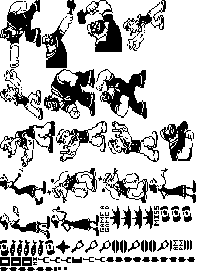
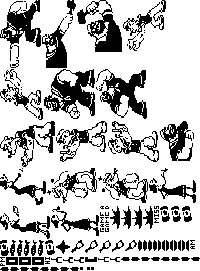
fix: preserve horizontal clock and score proportions

Changed region(s): [[0.0, 0.8856, 1.0, 1.0], [0.75, 0.7675, 0.81, 0.8561]]

diff --git a/src/c/segments_landscape.h b/src/c/segments_landscape.h
@@ -13,8 +13,8 @@
 #define LANDSCAPE_SHEET_HEIGHT 271
 
 static const SegmentArt landscape_art[SEG_COUNT] = {
-  [SEG_AM] = { 173, 240, 186, 213, 5, 10 }, /* am */
-  [SEG_BELL] = { 54, 267, 171, 218, 3, 4 }, /* bell */
+  [SEG_AM] = { 190, 240, 183, 206, 5, 9 }, /* am */
+  [SEG_BELL] = { 91, 267, 166, 211, 3, 3 }, /* bell */
   [SEG_BRUTUS + 0 * 3 + 0] = { 160, 121, 48, 0, 34, 40 }, /* brutus-left-idle */
   [SEG_BRUTUS + 0 * 3 + 2] = { 42, 0, 48, 0, 34, 68 }, /* brutus-left-strike */
   [SEG_BRUTUS + 0 * 3 + 1] = { 77, 0, 48, 0, 45, 52 }, /* brutus-left-windup */
@@ -24,65 +24,65 @@ static const SegmentArt landscape_art[SEG_COUNT] = {
   [SEG_CARGO + 0 * 5 + 0] = { 99, 240, 126, 57, 12, 13 }, /* cargo-0-0 */
   [SEG_CARGO + 0 * 5 + 1] = { 71, 240, 135, 71, 13, 13 }, /* cargo-0-1 */
   [SEG_CARGO + 0 * 5 + 2] = { 85, 240, 121, 80, 13, 13 }, /* cargo-0-2 */
-  [SEG_CARGO + 0 * 5 + 3] = { 157, 240, 96, 69, 12, 11 }, /* cargo-0-3 */
-  [SEG_CARGO + 0 * 5 + 4] = { 128, 240, 73, 51, 12, 12 }, /* cargo-0-4 */
+  [SEG_CARGO + 0 * 5 + 3] = { 125, 240, 96, 69, 12, 11 }, /* cargo-0-3 */
+  [SEG_CARGO + 0 * 5 + 4] = { 112, 240, 73, 51, 12, 12 }, /* cargo-0-4 */
   [SEG_CARGO + 1 * 5 + 0] = { 10, 240, 126, 56, 6, 16 }, /* cargo-1-0 */
   [SEG_CARGO + 1 * 5 + 1] = { 17, 240, 140, 81, 6, 16 }, /* cargo-1-1 */
   [SEG_CARGO + 1 * 5 + 2] = { 24, 240, 123, 100, 6, 16 }, /* cargo-1-2 */
   [SEG_CARGO + 1 * 5 + 3] = { 31, 240, 97, 91, 6, 16 }, /* cargo-1-3 */
   [SEG_CARGO + 1 * 5 + 4] = { 38, 240, 73, 78, 6, 16 }, /* cargo-1-4 */
-  [SEG_CARGO + 2 * 5 + 0] = { 50, 257, 126, 61, 10, 6 }, /* cargo-2-0 */
-  [SEG_CARGO + 2 * 5 + 1] = { 38, 257, 144, 96, 11, 6 }, /* cargo-2-1 */
-  [SEG_CARGO + 2 * 5 + 2] = { 61, 257, 127, 126, 10, 6 }, /* cargo-2-2 */
-  [SEG_CARGO + 2 * 5 + 3] = { 95, 257, 100, 141, 10, 5 }, /* cargo-2-3 */
-  [SEG_CARGO + 2 * 5 + 4] = { 83, 257, 73, 140, 11, 5 }, /* cargo-2-4 */
+  [SEG_CARGO + 2 * 5 + 0] = { 63, 257, 126, 61, 10, 6 }, /* cargo-2-0 */
+  [SEG_CARGO + 2 * 5 + 1] = { 51, 257, 144, 96, 11, 6 }, /* cargo-2-1 */
+  [SEG_CARGO + 2 * 5 + 2] = { 74, 257, 127, 126, 10, 6 }, /* cargo-2-2 */
+  [SEG_CARGO + 2 * 5 + 3] = { 110, 257, 100, 141, 10, 5 }, /* cargo-2-3 */
+  [SEG_CARGO + 2 * 5 + 4] = { 98, 257, 73, 140, 11, 5 }, /* cargo-2-4 */
   [SEG_CARGO + 3 * 5 + 0] = { 0, 240, 126, 56, 9, 16 }, /* cargo-3-0 */
   [SEG_CARGO + 3 * 5 + 1] = { 160, 206, 147, 96, 10, 16 }, /* cargo-3-1 */
   [SEG_CARGO + 3 * 5 + 2] = { 171, 206, 132, 137, 10, 16 }, /* cargo-3-2 */
   [SEG_CARGO + 3 * 5 + 3] = { 182, 206, 103, 159, 10, 16 }, /* cargo-3-3 */
   [SEG_CARGO + 3 * 5 + 4] = { 45, 240, 73, 164, 10, 15 }, /* cargo-3-4 */
-  [SEG_COLON] = { 58, 267, 179, 166, 9, 3 }, /* colon */
-  [SEG_DIGIT + 0 * 7 + 0] = { 184, 240, 190, 127, 2, 10 }, /* digit-0-a */
-  [SEG_DIGIT + 0 * 7 + 1] = { 106, 257, 184, 136, 8, 5 }, /* digit-0-b */
-  [SEG_DIGIT + 0 * 7 + 2] = { 115, 257, 176, 136, 8, 5 }, /* digit-0-c */
-  [SEG_DIGIT + 0 * 7 + 3] = { 141, 240, 175, 126, 3, 12 }, /* digit-0-d */
-  [SEG_DIGIT + 0 * 7 + 4] = { 0, 267, 176, 124, 8, 4 }, /* digit-0-e */
-  [SEG_DIGIT + 0 * 7 + 5] = { 9, 267, 184, 124, 8, 4 }, /* digit-0-f */
-  [SEG_DIGIT + 0 * 7 + 6] = { 145, 240, 182, 126, 3, 12 }, /* digit-0-g */
-  [SEG_DIGIT + 1 * 7 + 0] = { 187, 240, 190, 148, 2, 10 }, /* digit-1-a */
-  [SEG_DIGIT + 1 * 7 + 1] = { 18, 267, 184, 157, 8, 4 }, /* digit-1-b */
-  [SEG_DIGIT + 1 * 7 + 2] = { 27, 267, 176, 157, 8, 4 }, /* digit-1-c */
-  [SEG_DIGIT + 1 * 7 + 3] = { 112, 240, 175, 146, 3, 13 }, /* digit-1-d */
-  [SEG_DIGIT + 1 * 7 + 4] = { 124, 257, 176, 144, 8, 5 }, /* digit-1-e */
-  [SEG_DIGIT + 1 * 7 + 5] = { 133, 257, 184, 144, 8, 5 }, /* digit-1-f */
-  [SEG_DIGIT + 1 * 7 + 6] = { 116, 240, 182, 146, 3, 13 }, /* digit-1-g */
-  [SEG_DIGIT + 2 * 7 + 0] = { 190, 240, 190, 175, 2, 10 }, /* digit-2-a */
-  [SEG_DIGIT + 2 * 7 + 1] = { 142, 257, 184, 184, 8, 5 }, /* digit-2-b */
-  [SEG_DIGIT + 2 * 7 + 2] = { 151, 257, 176, 184, 8, 5 }, /* digit-2-c */
-  [SEG_DIGIT + 2 * 7 + 3] = { 149, 240, 175, 174, 3, 12 }, /* digit-2-d */
-  [SEG_DIGIT + 2 * 7 + 4] = { 160, 257, 176, 171, 8, 5 }, /* digit-2-e */
-  [SEG_DIGIT + 2 * 7 + 5] = { 169, 257, 184, 171, 8, 5 }, /* digit-2-f */
-  [SEG_DIGIT + 2 * 7 + 6] = { 153, 240, 182, 174, 3, 12 }, /* digit-2-g */
-  [SEG_DIGIT + 3 * 7 + 0] = { 170, 240, 190, 195, 2, 11 }, /* digit-3-a */
-  [SEG_DIGIT + 3 * 7 + 1] = { 36, 267, 184, 205, 8, 4 }, /* digit-3-b */
-  [SEG_DIGIT + 3 * 7 + 2] = { 45, 267, 176, 205, 8, 4 }, /* digit-3-c */
-  [SEG_DIGIT + 3 * 7 + 3] = { 120, 240, 175, 194, 3, 13 }, /* digit-3-d */
-  [SEG_DIGIT + 3 * 7 + 4] = { 178, 257, 176, 192, 8, 5 }, /* digit-3-e */
-  [SEG_DIGIT + 3 * 7 + 5] = { 187, 257, 184, 192, 8, 5 }, /* digit-3-f */
-  [SEG_DIGIT + 3 * 7 + 6] = { 124, 240, 182, 194, 3, 13 }, /* digit-3-g */
+  [SEG_COLON] = { 80, 267, 175, 165, 10, 3 }, /* colon */
+  [SEG_DIGIT + 0 * 7 + 0] = { 158, 240, 187, 130, 3, 11 }, /* digit-0-a */
+  [SEG_DIGIT + 0 * 7 + 1] = { 121, 257, 180, 139, 9, 4 }, /* digit-0-b */
+  [SEG_DIGIT + 0 * 7 + 2] = { 131, 257, 171, 139, 9, 4 }, /* digit-0-c */
+  [SEG_DIGIT + 0 * 7 + 3] = { 162, 240, 170, 130, 3, 11 }, /* digit-0-d */
+  [SEG_DIGIT + 0 * 7 + 4] = { 141, 257, 171, 128, 9, 4 }, /* digit-0-e */
+  [SEG_DIGIT + 0 * 7 + 5] = { 151, 257, 180, 128, 9, 4 }, /* digit-0-f */
+  [SEG_DIGIT + 0 * 7 + 6] = { 138, 240, 178, 130, 4, 11 }, /* digit-0-g */
+  [SEG_DIGIT + 1 * 7 + 0] = { 166, 240, 187, 148, 3, 11 }, /* digit-1-a */
+  [SEG_DIGIT + 1 * 7 + 1] = { 161, 257, 180, 157, 9, 4 }, /* digit-1-b */
+  [SEG_DIGIT + 1 * 7 + 2] = { 171, 257, 171, 157, 9, 4 }, /* digit-1-c */
+  [SEG_DIGIT + 1 * 7 + 3] = { 170, 240, 170, 148, 3, 11 }, /* digit-1-d */
+  [SEG_DIGIT + 1 * 7 + 4] = { 181, 257, 171, 146, 9, 4 }, /* digit-1-e */
+  [SEG_DIGIT + 1 * 7 + 5] = { 191, 257, 180, 146, 9, 4 }, /* digit-1-f */
+  [SEG_DIGIT + 1 * 7 + 6] = { 143, 240, 178, 148, 4, 11 }, /* digit-1-g */
+  [SEG_DIGIT + 2 * 7 + 0] = { 174, 240, 187, 172, 3, 11 }, /* digit-2-a */
+  [SEG_DIGIT + 2 * 7 + 1] = { 0, 267, 180, 181, 9, 4 }, /* digit-2-b */
+  [SEG_DIGIT + 2 * 7 + 2] = { 10, 267, 171, 181, 9, 4 }, /* digit-2-c */
+  [SEG_DIGIT + 2 * 7 + 3] = { 178, 240, 170, 172, 3, 11 }, /* digit-2-d */
+  [SEG_DIGIT + 2 * 7 + 4] = { 20, 267, 171, 170, 9, 4 }, /* digit-2-e */
+  [SEG_DIGIT + 2 * 7 + 5] = { 30, 267, 180, 170, 9, 4 }, /* digit-2-f */
+  [SEG_DIGIT + 2 * 7 + 6] = { 148, 240, 178, 172, 4, 11 }, /* digit-2-g */
+  [SEG_DIGIT + 3 * 7 + 0] = { 182, 240, 187, 190, 3, 11 }, /* digit-3-a */
+  [SEG_DIGIT + 3 * 7 + 1] = { 40, 267, 180, 199, 9, 4 }, /* digit-3-b */
+  [SEG_DIGIT + 3 * 7 + 2] = { 50, 267, 171, 199, 9, 4 }, /* digit-3-c */
+  [SEG_DIGIT + 3 * 7 + 3] = { 186, 240, 170, 190, 3, 11 }, /* digit-3-d */
+  [SEG_DIGIT + 3 * 7 + 4] = { 60, 267, 171, 188, 9, 4 }, /* digit-3-e */
+  [SEG_DIGIT + 3 * 7 + 5] = { 70, 267, 180, 188, 9, 4 }, /* digit-3-f */
+  [SEG_DIGIT + 3 * 7 + 6] = { 153, 240, 178, 190, 4, 11 }, /* digit-3-g */
   [SEG_GAME_A] = { 100, 206, 192, 6, 4, 26 }, /* game-a */
   [SEG_GAME_B] = { 105, 206, 183, 6, 4, 26 }, /* game-b */
-  [SEG_HI] = { 33, 257, 189, 92, 4, 8 }, /* hi */
-  [SEG_MISS + 0] = { 0, 257, 163, 159, 10, 9 }, /* miss-0 */
-  [SEG_MISS + 1] = { 11, 257, 163, 174, 10, 9 }, /* miss-1 */
-  [SEG_MISS + 2] = { 22, 257, 163, 189, 10, 9 }, /* miss-2 */
-  [SEG_MISS_HALF] = { 72, 257, 163, 203, 10, 6 }, /* miss-half */
-  [SEG_MISS_LABEL] = { 154, 206, 164, 130, 5, 20 }, /* miss-label */
+  [SEG_HI] = { 45, 257, 186, 100, 5, 7 }, /* hi */
+  [SEG_MISS + 0] = { 6, 257, 156, 159, 12, 8 }, /* miss-0 */
+  [SEG_MISS + 1] = { 19, 257, 156, 172, 12, 8 }, /* miss-1 */
+  [SEG_MISS + 2] = { 32, 257, 156, 185, 12, 8 }, /* miss-2 */
+  [SEG_MISS_HALF] = { 85, 257, 156, 198, 12, 5 }, /* miss-half */
+  [SEG_MISS_LABEL] = { 154, 206, 158, 134, 5, 17 }, /* miss-label */
   [SEG_OLIVE_BELL + 0] = { 51, 206, 104, 30, 48, 30 }, /* olive-bell-0 */
   [SEG_OLIVE_BELL + 1] = { 149, 168, 104, 28, 47, 35 }, /* olive-bell-1 */
   [SEG_OLIVE_READY] = { 0, 206, 104, 28, 50, 33 }, /* olive-ready */
   [SEG_OLIVE_THROW] = { 0, 168, 104, 28, 46, 37 }, /* olive-throw */
-  [SEG_PM] = { 179, 240, 178, 213, 4, 10 }, /* pm */
+  [SEG_PM] = { 0, 257, 173, 206, 5, 9 }, /* pm */
   [SEG_POPEYE + 0] = { 123, 0, 35, 50, 43, 51 }, /* popeye-0 */
   [SEG_POPEYE + 1] = { 56, 121, 35, 78, 51, 41 }, /* popeye-1 */
   [SEG_POPEYE + 2] = { 0, 121, 35, 91, 55, 46 }, /* popeye-2 */

diff --git a/src/c/segments_landscape_bottom.h b/src/c/segments_landscape_bottom.h
@@ -13,8 +13,8 @@
 #define LANDSCAPE_BOTTOM_SHEET_HEIGHT 271
 
 static const SegmentArt landscape_bottom_art[SEG_COUNT] = {
-  [SEG_AM] = { 173, 240, 9, 5, 5, 10 }, /* am */
-  [SEG_BELL] = { 54, 267, 26, 6, 3, 4 }, /* bell */
+  [SEG_AM] = { 190, 240, 12, 13, 5, 9 }, /* am */
+  [SEG_BELL] = { 91, 267, 31, 14, 3, 3 }, /* bell */
   [SEG_BRUTUS + 0 * 3 + 0] = { 160, 121, 118, 188, 34, 40 }, /* brutus-left-idle */
   [SEG_BRUTUS + 0 * 3 + 2] = { 42, 0, 118, 160, 34, 68 }, /* brutus-left-strike */
   [SEG_BRUTUS + 0 * 3 + 1] = { 77, 0, 107, 176, 45, 52 }, /* brutus-left-windup */
@@ -24,65 +24,65 @@ static const SegmentArt landscape_bottom_art[SEG_COUNT] = {
   [SEG_CARGO + 0 * 5 + 0] = { 99, 240, 62, 158, 12, 13 }, /* cargo-0-0 */
   [SEG_CARGO + 0 * 5 + 1] = { 71, 240, 52, 144, 13, 13 }, /* cargo-0-1 */
   [SEG_CARGO + 0 * 5 + 2] = { 85, 240, 66, 135, 13, 13 }, /* cargo-0-2 */
-  [SEG_CARGO + 0 * 5 + 3] = { 157, 240, 92, 148, 12, 11 }, /* cargo-0-3 */
-  [SEG_CARGO + 0 * 5 + 4] = { 128, 240, 115, 165, 12, 12 }, /* cargo-0-4 */
+  [SEG_CARGO + 0 * 5 + 3] = { 125, 240, 92, 148, 12, 11 }, /* cargo-0-3 */
+  [SEG_CARGO + 0 * 5 + 4] = { 112, 240, 115, 165, 12, 12 }, /* cargo-0-4 */
   [SEG_CARGO + 1 * 5 + 0] = { 10, 240, 68, 156, 6, 16 }, /* cargo-1-0 */
   [SEG_CARGO + 1 * 5 + 1] = { 17, 240, 54, 131, 6, 16 }, /* cargo-1-1 */
   [SEG_CARGO + 1 * 5 + 2] = { 24, 240, 71, 112, 6, 16 }, /* cargo-1-2 */
   [SEG_CARGO + 1 * 5 + 3] = { 31, 240, 97, 121, 6, 16 }, /* cargo-1-3 */
   [SEG_CARGO + 1 * 5 + 4] = { 38, 240, 121, 134, 6, 16 }, /* cargo-1-4 */
-  [SEG_CARGO + 2 * 5 + 0] = { 50, 257, 64, 161, 10, 6 }, /* cargo-2-0 */
-  [SEG_CARGO + 2 * 5 + 1] = { 38, 257, 45, 126, 11, 6 }, /* cargo-2-1 */
-  [SEG_CARGO + 2 * 5 + 2] = { 61, 257, 63, 96, 10, 6 }, /* cargo-2-2 */
-  [SEG_CARGO + 2 * 5 + 3] = { 95, 257, 90, 82, 10, 5 }, /* cargo-2-3 */
-  [SEG_CARGO + 2 * 5 + 4] = { 83, 257, 116, 83, 11, 5 }, /* cargo-2-4 */
+  [SEG_CARGO + 2 * 5 + 0] = { 63, 257, 64, 161, 10, 6 }, /* cargo-2-0 */
+  [SEG_CARGO + 2 * 5 + 1] = { 51, 257, 45, 126, 11, 6 }, /* cargo-2-1 */
+  [SEG_CARGO + 2 * 5 + 2] = { 74, 257, 63, 96, 10, 6 }, /* cargo-2-2 */
+  [SEG_CARGO + 2 * 5 + 3] = { 110, 257, 90, 82, 10, 5 }, /* cargo-2-3 */
+  [SEG_CARGO + 2 * 5 + 4] = { 98, 257, 116, 83, 11, 5 }, /* cargo-2-4 */
   [SEG_CARGO + 3 * 5 + 0] = { 0, 240, 65, 156, 9, 16 }, /* cargo-3-0 */
   [SEG_CARGO + 3 * 5 + 1] = { 160, 206, 43, 116, 10, 16 }, /* cargo-3-1 */
   [SEG_CARGO + 3 * 5 + 2] = { 171, 206, 58, 75, 10, 16 }, /* cargo-3-2 */
   [SEG_CARGO + 3 * 5 + 3] = { 182, 206, 87, 53, 10, 16 }, /* cargo-3-3 */
   [SEG_CARGO + 3 * 5 + 4] = { 45, 240, 117, 49, 10, 15 }, /* cargo-3-4 */
-  [SEG_COLON] = { 58, 267, 12, 59, 9, 3 }, /* colon */
-  [SEG_DIGIT + 0 * 7 + 0] = { 184, 240, 8, 91, 2, 10 }, /* digit-0-a */
-  [SEG_DIGIT + 0 * 7 + 1] = { 106, 257, 8, 87, 8, 5 }, /* digit-0-b */
-  [SEG_DIGIT + 0 * 7 + 2] = { 115, 257, 16, 87, 8, 5 }, /* digit-0-c */
-  [SEG_DIGIT + 0 * 7 + 3] = { 141, 240, 22, 90, 3, 12 }, /* digit-0-d */
-  [SEG_DIGIT + 0 * 7 + 4] = { 0, 267, 16, 100, 8, 4 }, /* digit-0-e */
-  [SEG_DIGIT + 0 * 7 + 5] = { 9, 267, 8, 100, 8, 4 }, /* digit-0-f */
-  [SEG_DIGIT + 0 * 7 + 6] = { 145, 240, 15, 90, 3, 12 }, /* digit-0-g */
-  [SEG_DIGIT + 1 * 7 + 0] = { 187, 240, 8, 70, 2, 10 }, /* digit-1-a */
-  [SEG_DIGIT + 1 * 7 + 1] = { 18, 267, 8, 67, 8, 4 }, /* digit-1-b */
-  [SEG_DIGIT + 1 * 7 + 2] = { 27, 267, 16, 67, 8, 4 }, /* digit-1-c */
-  [SEG_DIGIT + 1 * 7 + 3] = { 112, 240, 22, 69, 3, 13 }, /* digit-1-d */
-  [SEG_DIGIT + 1 * 7 + 4] = { 124, 257, 16, 79, 8, 5 }, /* digit-1-e */
-  [SEG_DIGIT + 1 * 7 + 5] = { 133, 257, 8, 79, 8, 5 }, /* digit-1-f */
-  [SEG_DIGIT + 1 * 7 + 6] = { 116, 240, 15, 69, 3, 13 }, /* digit-1-g */
-  [SEG_DIGIT + 2 * 7 + 0] = { 190, 240, 8, 43, 2, 10 }, /* digit-2-a */
-  [SEG_DIGIT + 2 * 7 + 1] = { 142, 257, 8, 39, 8, 5 }, /* digit-2-b */
-  [SEG_DIGIT + 2 * 7 + 2] = { 151, 257, 16, 39, 8, 5 }, /* digit-2-c */
-  [SEG_DIGIT + 2 * 7 + 3] = { 149, 240, 22, 42, 3, 12 }, /* digit-2-d */
-  [SEG_DIGIT + 2 * 7 + 4] = { 160, 257, 16, 52, 8, 5 }, /* digit-2-e */
-  [SEG_DIGIT + 2 * 7 + 5] = { 169, 257, 8, 52, 8, 5 }, /* digit-2-f */
-  [SEG_DIGIT + 2 * 7 + 6] = { 153, 240, 15, 42, 3, 12 }, /* digit-2-g */
-  [SEG_DIGIT + 3 * 7 + 0] = { 170, 240, 8, 22, 2, 11 }, /* digit-3-a */
-  [SEG_DIGIT + 3 * 7 + 1] = { 36, 267, 8, 19, 8, 4 }, /* digit-3-b */
-  [SEG_DIGIT + 3 * 7 + 2] = { 45, 267, 16, 19, 8, 4 }, /* digit-3-c */
-  [SEG_DIGIT + 3 * 7 + 3] = { 120, 240, 22, 21, 3, 13 }, /* digit-3-d */
-  [SEG_DIGIT + 3 * 7 + 4] = { 178, 257, 16, 31, 8, 5 }, /* digit-3-e */
-  [SEG_DIGIT + 3 * 7 + 5] = { 187, 257, 8, 31, 8, 5 }, /* digit-3-f */
-  [SEG_DIGIT + 3 * 7 + 6] = { 124, 240, 15, 21, 3, 13 }, /* digit-3-g */
+  [SEG_COLON] = { 80, 267, 15, 60, 10, 3 }, /* colon */
+  [SEG_DIGIT + 0 * 7 + 0] = { 158, 240, 10, 87, 3, 11 }, /* digit-0-a */
+  [SEG_DIGIT + 0 * 7 + 1] = { 121, 257, 11, 85, 9, 4 }, /* digit-0-b */
+  [SEG_DIGIT + 0 * 7 + 2] = { 131, 257, 20, 85, 9, 4 }, /* digit-0-c */
+  [SEG_DIGIT + 0 * 7 + 3] = { 162, 240, 27, 87, 3, 11 }, /* digit-0-d */
+  [SEG_DIGIT + 0 * 7 + 4] = { 141, 257, 20, 96, 9, 4 }, /* digit-0-e */
+  [SEG_DIGIT + 0 * 7 + 5] = { 151, 257, 11, 96, 9, 4 }, /* digit-0-f */
+  [SEG_DIGIT + 0 * 7 + 6] = { 138, 240, 18, 87, 4, 11 }, /* digit-0-g */
+  [SEG_DIGIT + 1 * 7 + 0] = { 166, 240, 10, 69, 3, 11 }, /* digit-1-a */
+  [SEG_DIGIT + 1 * 7 + 1] = { 161, 257, 11, 67, 9, 4 }, /* digit-1-b */
+  [SEG_DIGIT + 1 * 7 + 2] = { 171, 257, 20, 67, 9, 4 }, /* digit-1-c */
+  [SEG_DIGIT + 1 * 7 + 3] = { 170, 240, 27, 69, 3, 11 }, /* digit-1-d */
+  [SEG_DIGIT + 1 * 7 + 4] = { 181, 257, 20, 78, 9, 4 }, /* digit-1-e */
+  [SEG_DIGIT + 1 * 7 + 5] = { 191, 257, 11, 78, 9, 4 }, /* digit-1-f */
+  [SEG_DIGIT + 1 * 7 + 6] = { 143, 240, 18, 69, 4, 11 }, /* digit-1-g */
+  [SEG_DIGIT + 2 * 7 + 0] = { 174, 240, 10, 45, 3, 11 }, /* digit-2-a */
+  [SEG_DIGIT + 2 * 7 + 1] = { 0, 267, 11, 43, 9, 4 }, /* digit-2-b */
+  [SEG_DIGIT + 2 * 7 + 2] = { 10, 267, 20, 43, 9, 4 }, /* digit-2-c */
+  [SEG_DIGIT + 2 * 7 + 3] = { 178, 240, 27, 45, 3, 11 }, /* digit-2-d */
+  [SEG_DIGIT + 2 * 7 + 4] = { 20, 267, 20, 54, 9, 4 }, /* digit-2-e */
+  [SEG_DIGIT + 2 * 7 + 5] = { 30, 267, 11, 54, 9, 4 }, /* digit-2-f */
+  [SEG_DIGIT + 2 * 7 + 6] = { 148, 240, 18, 45, 4, 11 }, /* digit-2-g */
+  [SEG_DIGIT + 3 * 7 + 0] = { 182, 240, 10, 27, 3, 11 }, /* digit-3-a */
+  [SEG_DIGIT + 3 * 7 + 1] = { 40, 267, 11, 25, 9, 4 }, /* digit-3-b */
+  [SEG_DIGIT + 3 * 7 + 2] = { 50, 267, 20, 25, 9, 4 }, /* digit-3-c */
+  [SEG_DIGIT + 3 * 7 + 3] = { 186, 240, 27, 27, 3, 11 }, /* digit-3-d */
+  [SEG_DIGIT + 3 * 7 + 4] = { 60, 267, 20, 36, 9, 4 }, /* digit-3-e */
+  [SEG_DIGIT + 3 * 7 + 5] = { 70, 267, 11, 36, 9, 4 }, /* digit-3-f */
+  [SEG_DIGIT + 3 * 7 + 6] = { 153, 240, 18, 27, 4, 11 }, /* digit-3-g */
   [SEG_GAME_A] = { 100, 206, 4, 196, 4, 26 }, /* game-a */
   [SEG_GAME_B] = { 105, 206, 13, 196, 4, 26 }, /* game-b */
-  [SEG_HI] = { 33, 257, 7, 128, 4, 8 }, /* hi */
-  [SEG_MISS + 0] = { 0, 257, 27, 60, 10, 9 }, /* miss-0 */
-  [SEG_MISS + 1] = { 11, 257, 27, 45, 10, 9 }, /* miss-1 */
-  [SEG_MISS + 2] = { 22, 257, 27, 30, 10, 9 }, /* miss-2 */
-  [SEG_MISS_HALF] = { 72, 257, 27, 19, 10, 6 }, /* miss-half */
-  [SEG_MISS_LABEL] = { 154, 206, 31, 78, 5, 20 }, /* miss-label */
+  [SEG_HI] = { 45, 257, 9, 121, 5, 7 }, /* hi */
+  [SEG_MISS + 0] = { 6, 257, 32, 61, 12, 8 }, /* miss-0 */
+  [SEG_MISS + 1] = { 19, 257, 32, 48, 12, 8 }, /* miss-1 */
+  [SEG_MISS + 2] = { 32, 257, 32, 35, 12, 8 }, /* miss-2 */
+  [SEG_MISS_HALF] = { 85, 257, 32, 25, 12, 5 }, /* miss-half */
+  [SEG_MISS_LABEL] = { 154, 206, 37, 77, 5, 17 }, /* miss-label */
   [SEG_OLIVE_BELL + 0] = { 51, 206, 48, 168, 48, 30 }, /* olive-bell-0 */
   [SEG_OLIVE_BELL + 1] = { 149, 168, 49, 165, 47, 35 }, /* olive-bell-1 */
   [SEG_OLIVE_READY] = { 0, 206, 46, 167, 50, 33 }, /* olive-ready */
   [SEG_OLIVE_THROW] = { 0, 168, 50, 163, 46, 37 }, /* olive-throw */
-  [SEG_PM] = { 179, 240, 18, 5, 4, 10 }, /* pm */
+  [SEG_PM] = { 0, 257, 22, 13, 5, 9 }, /* pm */
   [SEG_POPEYE + 0] = { 123, 0, 122, 127, 43, 51 }, /* popeye-0 */
   [SEG_POPEYE + 1] = { 56, 121, 114, 109, 51, 41 }, /* popeye-1 */
   [SEG_POPEYE + 2] = { 0, 121, 110, 91, 55, 46 }, /* popeye-2 */

diff --git a/tools/build_art.py b/tools/build_art.py
@@ -269,9 +269,20 @@ def landscape_segments(segments, buttons_bottom=False):
     result = []
     for segment in segments:
         rows = [[CLEAR] * WIDTH for _ in range(HEIGHT)]
-        for x, y in segment["lit"]:
-            rows[y][x] = LIT
-        rows = landscape(rows, buttons_bottom)
+        name = segment["name"]
+        if name.startswith(("digit-", "miss-")) or name in ("colon", "am", "pm", "bell", "hi"):
+            # Lay out the right-hand register on the 228 x 200 canvas at
+            # original pixel size. Scaling the playfield shortens thin LCD
+            # bars and crowds the edge indicators. Leave a 10 px right margin.
+            for x, y in segment["lit"]:
+                sx, sy = WIDTH - 1 - (y + 2), x + 20
+                if buttons_bottom:
+                    sx, sy = WIDTH - 1 - sx, HEIGHT - 1 - sy
+                rows[sy][sx] = LIT
+        else:
+            for x, y in segment["lit"]:
+                rows[y][x] = LIT
+            rows = landscape(rows, buttons_bottom)
         lit = [(x, y) for y in range(HEIGHT) for x in range(WIDTH) if rows[y][x][3]]
         if not lit:
             raise ArtError(segment["name"] + ": lost in landscape conversion")
@@ -312,9 +323,16 @@ def build(out_root):
         turned = landscape_segments(segments, bottom)
         turned_sheet = pack(turned)
         write_png(os.path.join(images, f"segments-{slug}.png"), turned_sheet)
-        write_png(os.path.join(images, f"backdrop-{slug}.png"), landscape(backdrop, bottom))
-        # Transform the same ghost composite, so lit segments and ghosts stay aligned.
-        write_png(os.path.join(images, f"backdrop-ghosts-{slug}.png"), landscape(ghosts, bottom))
+        turned_backdrop = landscape(backdrop, bottom)
+        write_png(os.path.join(images, f"backdrop-{slug}.png"), turned_backdrop)
+        # Bake ghosts from the final segment positions, including the unscaled
+        # clock/score register. The opposite view uses the same dither pixels.
+        for seg in turned:
+            if seg["name"].startswith("digit-") or re.fullmatch(r"miss-[0-2]", seg["name"]):
+                for x, y in seg["lit"]:
+                    if (x + y) % 2 == 0:
+                        turned_backdrop[y][x] = GHOST
+        write_png(os.path.join(images, f"backdrop-ghosts-{slug}.png"), turned_backdrop)
         turned_header = header_text(turned, len(turned_sheet))
         turned_header = turned_header.replace("POPEYE_GW_SEGMENTS_H", f"POPEYE_GW_SEGMENTS_{symbol.upper()}_H")
         turned_header = turned_header.replace("#include \"scene.h\"", "#include \"segments.h\"")

diff --git a/tests/test_scene.c b/tests/test_scene.c
@@ -98,6 +98,22 @@ static void test_numbers(void) {
   assert(digit_bits(&scene, 3u) == 0x7Fu);
 }
 
+static void test_landscape_register(void) {
+  unsigned seg;
+  /* Thin LCD bars must survive landscape at their original pixel dimensions,
+   * with room between the register and the display edges in either rotation. */
+  for (seg = SEG_DIGIT; seg < SEG_DIGIT + 28u; ++seg) {
+    const SegmentArt *portrait = &segment_art[seg];
+    const SegmentArt *top = &landscape_art[seg];
+    const SegmentArt *bottom = &landscape_bottom_art[seg];
+    assert(top->w == portrait->h && top->h == portrait->w);
+    assert(top->x >= 8 && top->x + top->w <= 192);
+    assert(top->y >= 8 && top->y + top->h <= 220);
+    assert(bottom->x >= 8 && bottom->x + bottom->w <= 192);
+    assert(bottom->y >= 8 && bottom->y + bottom->h <= 220);
+  }
+}
+
 static void test_static_scenes(void) {
   Scene scene;
   Game game = quiet_game(GAME_A);
@@ -204,6 +220,7 @@ static void test_rounds_to_game_over(void) {
 int main(void) {
   test_inventory_and_bits();
   test_numbers();
+  test_landscape_register();
   test_static_scenes();
   test_cargo_and_feedback();
   test_rounds_to_game_over();

diff --git a/docs/landscape.md b/docs/landscape.md
@@ -32,7 +32,10 @@ selected orientation. Portrait remains the default.
 The original approved art remains the source. `tools/build_art.py` generates a
 228 × 200 logical landscape composition with nearest-neighbour sampling, then
 rotates it clockwise for Top and counterclockwise for Bottom into the native
-200 × 228 framebuffer. All three orientations
+200 × 228 framebuffer. The clock/score digits and adjacent MISS, AM/PM, alarm
+and high-score indicators retain their original pixel dimensions in landscape,
+with a separate inset placement. Their unlit ghosts use the same positions.
+All three orientations
 have complete 82-segment atlases and matching ghost/plain backdrops. No new
 image generation or network request is needed to rebuild these assets.
 
